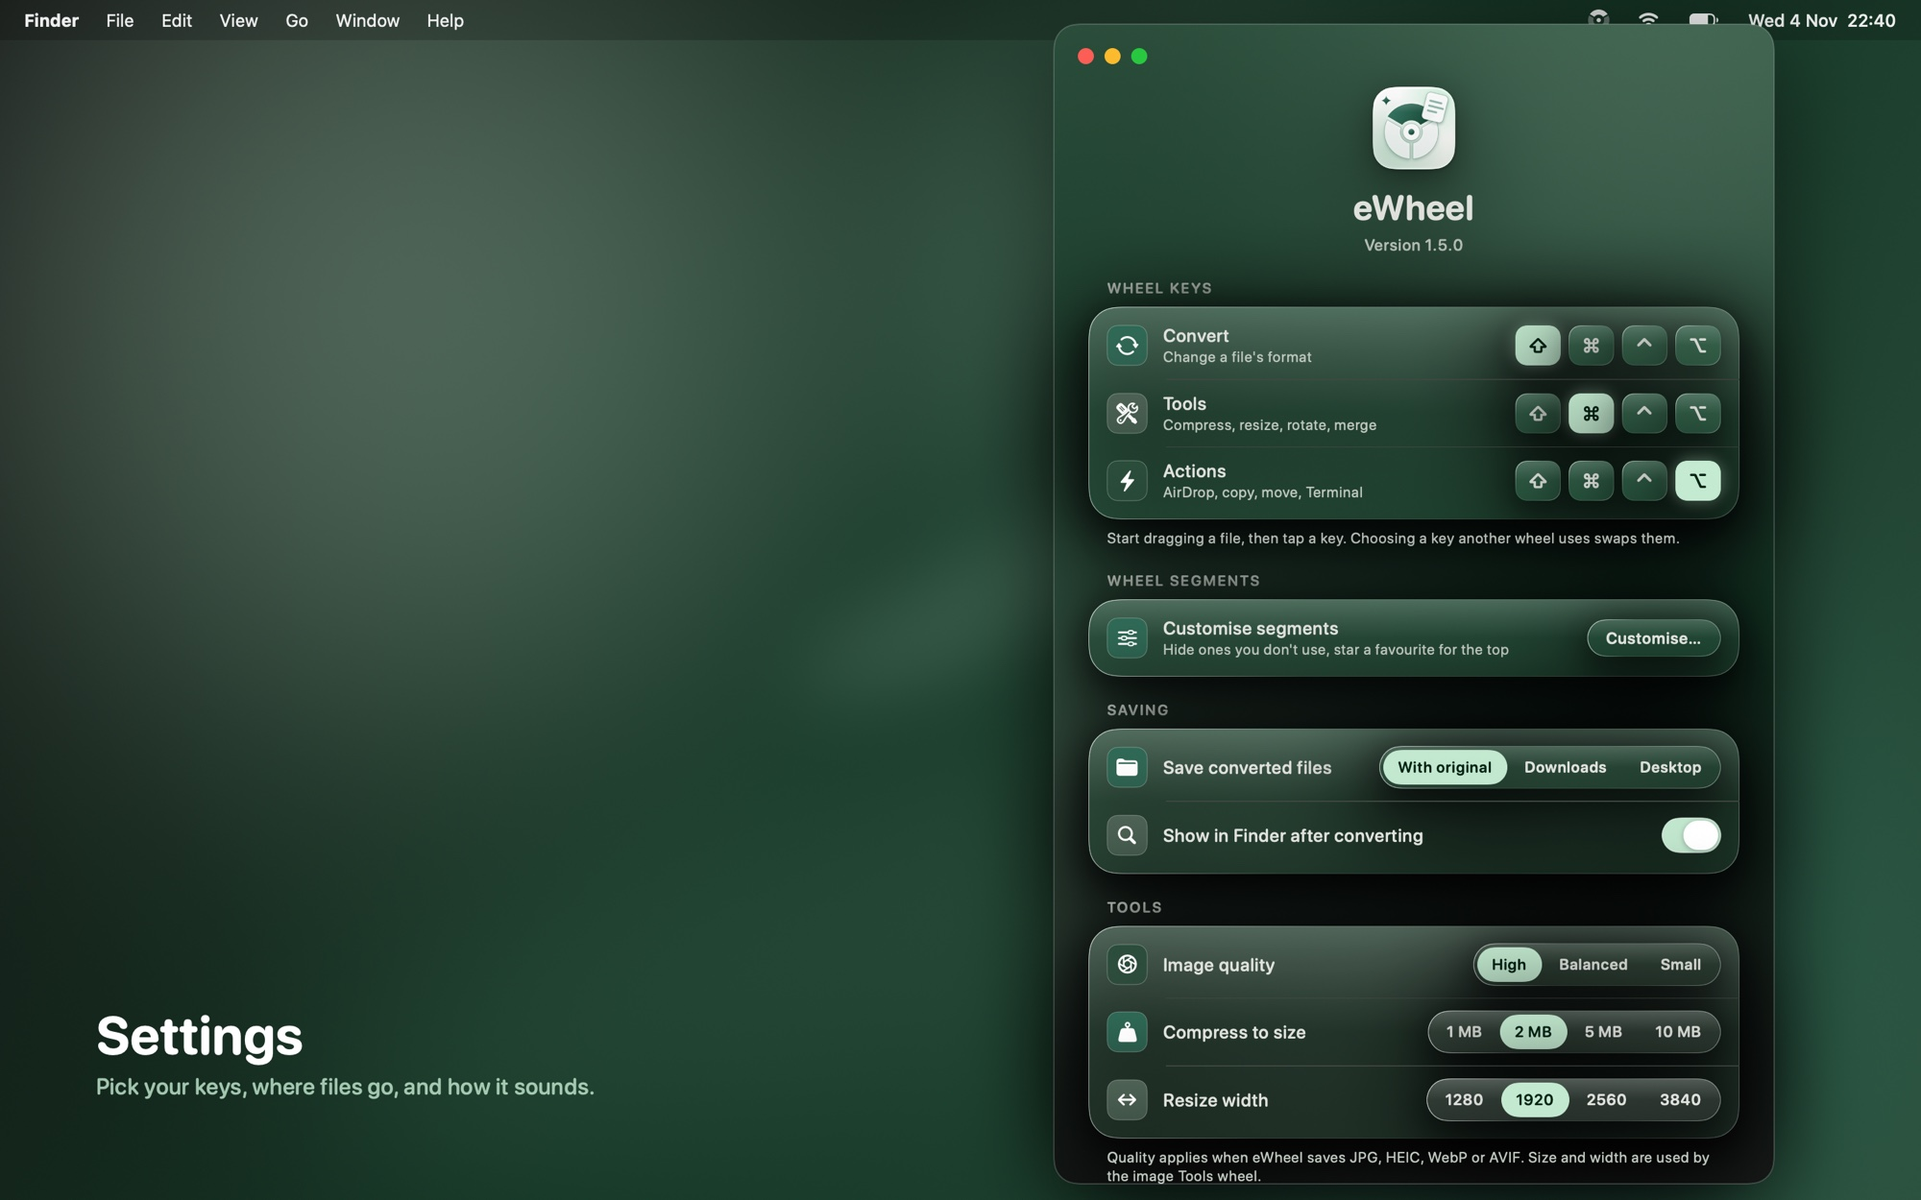
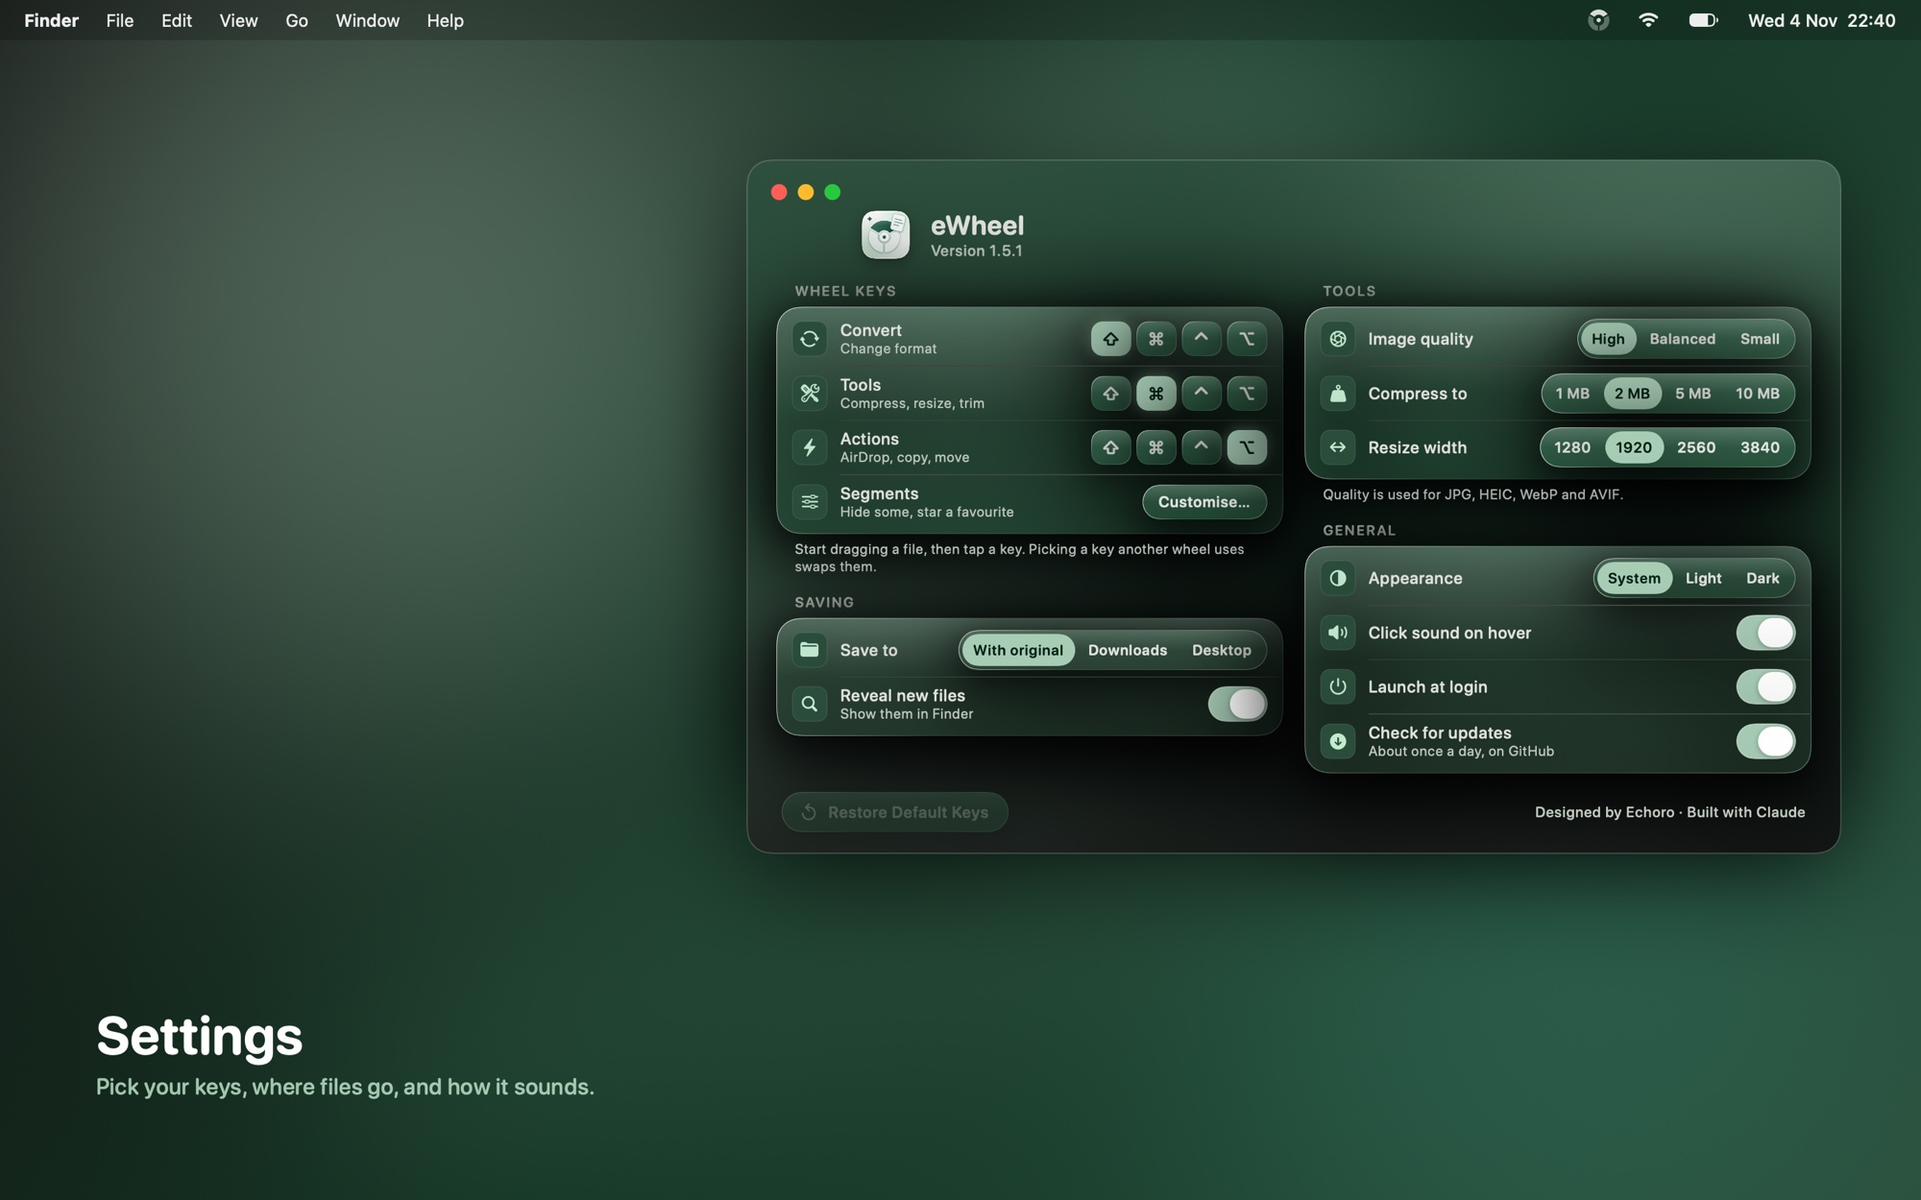
eWheel 1.5.1: compact Settings, Echoro brand colour roles
- Settings is 820 × 520 instead of 540 × 870: two columns of the same glass
  sections (Wheel keys + Saving | Tools + General), a one-line header, tighter
  rows, and Customise folded into the Wheel keys section. No scrolling.
- Colours follow Echoro's brand roles: icon chips use primary container with
  on-primary-container (one pairing instead of four greens), and selections
  (keys, choices, switches, the picked segment) use the kit's primary role,
  as MacCleanser does. The glass is unchanged.
- "Show in Finder after converting" is now "Reveal new files".
- Removes Img.half, unused since Resize width replaced Half size.

Changed region(s): [[0.372, 0.0, 0.992, 1.0], [0.558, 0.0312, 0.62, 0.0624]]

diff --git a/Sources/eWheel/Settings.swift b/Sources/eWheel/Settings.swift
@@ -14,7 +14,7 @@ enum Credits {
 @MainActor
 final class SettingsWindow {
     static let shared = SettingsWindow()
-    static let size = CGSize(width: 540, height: 870)
+    static let size = CGSize(width: 820, height: 520)
     private var window: NSWindow?
 
     func show() {
@@ -85,78 +85,75 @@ struct SettingsView: View {
     var body: some View {
         ZStack(alignment: .top) {
             SettingsBackground()
-            RenderSafeScroll {
-            VStack(spacing: 18) {
+            VStack(spacing: 14) {
                 header
-                section("Wheel keys", footer: "Start dragging a file, then tap a key. Choosing a key another wheel uses swaps them.") {
-                    ForEach(Array(WheelMode.allCases.enumerated()), id: \.offset) { i, mode in
-                        if i > 0 { divider }
-                        keyRow(mode)
-                    }
-                }
-                section("Wheel segments", footer: nil) {
-                    row(icon: "slider.horizontal.3", shade: Brand.color(Brand.forest), title: "Customise segments",
-                        subtitle: "Hide ones you don't use, star a favourite for the top") {
-                        Button { CustomiseWindow.shared.show() } label: {
-                            Text("Customise\u{2026}")
-                                .font(.system(size: 12, weight: .semibold, design: .rounded))
-                                .padding(.horizontal, 14).frame(height: 28)
-                                .echoGlass(Capsule(), tint: GlassTint.clear, interactive: true)
+                HStack(alignment: .top, spacing: 16) {
+                    VStack(spacing: 14) {
+                        section("Wheel keys", footer: "Start dragging a file, then tap a key. Picking a key another wheel uses swaps them.") {
+                            ForEach(Array(WheelMode.allCases.enumerated()), id: \.offset) { i, mode in
+                                if i > 0 { divider }
+                                keyRow(mode)
+                            }
+                            divider
+                            row(icon: "slider.horizontal.3", title: "Segments", subtitle: "Hide some, star a favourite") {
+                                Button { CustomiseWindow.shared.show() } label: {
+                                    Text("Customise\u{2026}")
+                                        .font(.system(size: 11.5, weight: .semibold, design: .rounded))
+                                        .padding(.horizontal, 12).frame(height: 26)
+                                        .echoGlass(Capsule(), tint: GlassTint.clear, interactive: true)
+                                }
+                                .buttonStyle(.plain)
+                            }
                         }
-                        .buttonStyle(.plain)
-                    }
-                }
-                section("Saving", footer: nil) {
-                    row(icon: "folder.fill", shade: Brand.color(Brand.forest), title: "Save converted files") { locationPicker }
-                    divider
-                    row(icon: "magnifyingglass", shade: Brand.color(Brand.lSecondary), title: "Show in Finder after converting") {
-                        GlassSwitch(isOn: $revealAfter)
-                    }
-                }
-                section("Tools", footer: "Quality applies when eWheel saves JPG, HEIC, WebP or AVIF. Size and width are used by the image Tools wheel.") {
-                    row(icon: "camera.aperture", shade: Brand.color(Brand.dPrimaryContainer), title: "Image quality") {
-                        segmented([("High", "high"), ("Balanced", "balanced"), ("Small", "small")], selection: $imageQuality)
-                    }
-                    divider
-                    row(icon: "scalemass.fill", shade: Brand.color(Brand.forest), title: "Compress to size") {
-                        segmented([1, 2, 5, 10].map { ("\($0) MB", "\($0)") },
-                                  selection: Binding(get: { "\(targetMB)" }, set: { targetMB = Int($0) ?? 2 }))
-                    }
-                    divider
-                    row(icon: "arrow.left.and.right", shade: Brand.color(Brand.lSecondary), title: "Resize width") {
-                        segmented([1280, 1920, 2560, 3840].map { ("\($0)", "\($0)") },
-                                  selection: Binding(get: { "\(resizeWidth)" }, set: { resizeWidth = Int($0) ?? 1920 }))
-                    }
-                }
-                section("General", footer: nil) {
-                    row(icon: "circle.lefthalf.filled", shade: Echoro.green, title: "Appearance") {
-                        segmented([("System", "system"), ("Light", "light"), ("Dark", "dark")], selection: $appearance) {
-                            Appearance.apply()
+                        section("Saving", footer: nil) {
+                            row(icon: "folder.fill", title: "Save to") { locationPicker }
+                            divider
+                            row(icon: "magnifyingglass", title: "Reveal new files", subtitle: "Show them in Finder") { GlassSwitch(isOn: $revealAfter) }
                         }
                     }
-                    divider
-                    row(icon: "speaker.wave.2.fill", shade: Brand.color(Brand.dPrimaryContainer), title: "Click sound on hover") {
-                        GlassSwitch(isOn: $hoverSound)
+                    VStack(spacing: 14) {
+                        section("Tools", footer: "Quality is used for JPG, HEIC, WebP and AVIF.") {
+                            row(icon: "camera.aperture", title: "Image quality") {
+                                segmented([("High", "high"), ("Balanced", "balanced"), ("Small", "small")], selection: $imageQuality)
+                            }
+                            divider
+                            row(icon: "scalemass.fill", title: "Compress to") {
+                                segmented([1, 2, 5, 10].map { ("\($0) MB", "\($0)") },
+                                          selection: Binding(get: { "\(targetMB)" }, set: { targetMB = Int($0) ?? 2 }))
+                            }
+                            divider
+                            row(icon: "arrow.left.and.right", title: "Resize width") {
+                                segmented([1280, 1920, 2560, 3840].map { ("\($0)", "\($0)") },
+                                          selection: Binding(get: { "\(resizeWidth)" }, set: { resizeWidth = Int($0) ?? 1920 }))
+                            }
+                        }
+                        section("General", footer: nil) {
+                            row(icon: "circle.lefthalf.filled", title: "Appearance") {
+                                segmented([("System", "system"), ("Light", "light"), ("Dark", "dark")], selection: $appearance) {
+                                    Appearance.apply()
+                                }
+                            }
+                            divider
+                            row(icon: "speaker.wave.2.fill", title: "Click sound on hover") { GlassSwitch(isOn: $hoverSound) }
+                            divider
+                            row(icon: "power", title: "Launch at login") {
+                                GlassSwitch(isOn: Binding(get: { login.enabled }, set: { login.set($0) }))
+                            }
+                            divider
+                            row(icon: "arrow.down.circle.fill", title: "Check for updates", subtitle: "About once a day, on GitHub") {
+                                GlassSwitch(isOn: $autoUpdateCheck)
+                            }
+                        }
+                        if let error = login.error {
+                            Text(error).font(.system(size: 11, design: .rounded)).foregroundStyle(Color.inkSecondary)
+                        }
                     }
-                    divider
-                    row(icon: "power", shade: Echoro.green, title: "Launch at login") {
-                        GlassSwitch(isOn: Binding(get: { login.enabled }, set: { login.set($0) }))
-                    }
-                    divider
-                    row(icon: "arrow.down.circle.fill", shade: Brand.color(Brand.forest),
-                        title: "Check for updates automatically", subtitle: "Looks for a new version on GitHub about once a day") {
-                        GlassSwitch(isOn: $autoUpdateCheck)
-                    }
-                }
-                if let error = login.error {
-                    Text(error).font(.system(size: 11, design: .rounded)).foregroundStyle(Color.inkSecondary)
                 }
                 footerBar
             }
-            .padding(.horizontal, 26)
-            .padding(.top, 40)
-            .padding(.bottom, 20)
-            }
+            .padding(.horizontal, 22)
+            .padding(.top, 34)
+            .padding(.bottom, 18)
         }
         .frame(width: SettingsWindow.size.width, height: SettingsWindow.size.height, alignment: .top)
         .foregroundStyle(Color.ink)
@@ -164,32 +161,37 @@ struct SettingsView: View {
 
     // MARK: Header
 
+    /// One compact line: icon, name and version.
     private var header: some View {
-        VStack(spacing: 6) {
+        HStack(spacing: 12) {
             Image(nsImage: NSApp.applicationIconImage)
                 .resizable()
-                .frame(width: 76, height: 76)
-                .shadow(color: .black.opacity(0.35), radius: 12, y: 6)
-            Text("eWheel").font(.system(size: 26, weight: .bold, design: .rounded))
-            Text(Credits.version).font(.system(size: 12, weight: .medium, design: .rounded)).foregroundStyle(Color.inkSecondary)
+                .frame(width: 44, height: 44)
+                .shadow(color: .black.opacity(0.3), radius: 6, y: 3)
+            VStack(alignment: .leading, spacing: 0) {
+                Text("eWheel").font(.system(size: 20, weight: .bold, design: .rounded))
+                Text(Credits.version).font(.system(size: 11.5, weight: .medium, design: .rounded)).foregroundStyle(Color.inkSecondary)
+            }
+            Spacer()
         }
-        .frame(maxWidth: .infinity)
+        .padding(.leading, 60)   // clear of the window buttons
     }
 
     // MARK: Sections and rows
 
     private func section<C: View>(_ title: String, footer: String?, @ViewBuilder _ content: () -> C) -> some View {
-        VStack(alignment: .leading, spacing: 7) {
+        VStack(alignment: .leading, spacing: 5) {
             Text(title.uppercased())
-                .font(.system(size: 11, weight: .semibold, design: .rounded)).tracking(0.8)
+                .font(.system(size: 10.5, weight: .semibold, design: .rounded)).tracking(0.8)
                 .foregroundStyle(Color.inkSecondary)
                 .padding(.leading, 14)
             VStack(spacing: 0) { content() }
                 .padding(.vertical, 4)
-                .echoGlass(RoundedRectangle(cornerRadius: 22, style: .continuous), tint: GlassTint.clear)
+                .echoGlass(RoundedRectangle(cornerRadius: 18, style: .continuous), tint: GlassTint.clear)
             if let footer {
                 Text(footer)
-                    .font(.system(size: 11, design: .rounded))
+                    .font(.system(size: 10.5, design: .rounded))
+                    .fixedSize(horizontal: false, vertical: true)
                     .foregroundStyle(Color.inkSecondary)
                     .padding(.horizontal, 14)
             }
@@ -197,36 +199,36 @@ struct SettingsView: View {
     }
 
     private var divider: some View {
-        Rectangle().fill(Color.divider).frame(height: 0.8).padding(.leading, 58)
+        Rectangle().fill(Color.divider).frame(height: 0.8).padding(.leading, 48)
     }
 
-    private func row<C: View>(icon: String, shade: Color, title: String, subtitle: String? = nil,
+    private func row<C: View>(icon: String, title: String, subtitle: String? = nil,
                               @ViewBuilder _ control: () -> C) -> some View {
-        HStack(spacing: 12) {
-            IconChip(symbol: icon, shade: shade)
-            VStack(alignment: .leading, spacing: 1) {
-                Text(title).font(.system(size: 13.5, weight: .medium, design: .rounded))
+        HStack(spacing: 10) {
+            IconChip(symbol: icon)
+            VStack(alignment: .leading, spacing: 0) {
+                Text(title).font(.system(size: 12.5, weight: .medium, design: .rounded)).lineLimit(1)
                 if let subtitle {
-                    Text(subtitle).font(.system(size: 11, design: .rounded)).foregroundStyle(Color.inkSecondary)
+                    Text(subtitle).font(.system(size: 10.5, design: .rounded)).foregroundStyle(Color.inkSecondary).lineLimit(1)
                 }
             }
-            Spacer(minLength: 8)
+            Spacer(minLength: 6)
             control()
         }
-        .padding(.horizontal, 14)
-        .frame(minHeight: 50)
+        .padding(.horizontal, 12)
+        .frame(minHeight: 40)
     }
 
     // MARK: Wheel keys
 
     private func keyRow(_ mode: WheelMode) -> some View {
-        let info: (String, Color, String) = switch mode {
-        case .convert: ("arrow.triangle.2.circlepath", Brand.color(Brand.forest), "Change a file's format")
-        case .tools: ("wrench.and.screwdriver.fill", Brand.color(Brand.lSecondary), "Compress, resize, rotate, merge")
-        case .actions: ("bolt.fill", Brand.color(Brand.dPrimaryContainer), "AirDrop, copy, move, Terminal")
+        let info: (String, String) = switch mode {
+        case .convert: ("arrow.triangle.2.circlepath", "Change format")
+        case .tools: ("wrench.and.screwdriver.fill", "Compress, resize, trim")
+        case .actions: ("bolt.fill", "AirDrop, copy, move")
         }
-        return row(icon: info.0, shade: info.1, title: mode.title, subtitle: info.2) {
-            HStack(spacing: 6) {
+        return row(icon: info.0, title: mode.title, subtitle: info.1) {
+            HStack(spacing: 4) {
                 ForEach(ModKey.allCases) { k in keycap(k, for: mode) }
             }
         }
@@ -236,9 +238,9 @@ struct SettingsView: View {
         let on = value(mode) == k.rawValue
         return Button { withAnimation(.snappy(duration: 0.2)) { choose(k.rawValue, for: mode) } } label: {
             Text(k.glyph)
-                .font(.system(size: 15, weight: .semibold, design: .rounded))
+                .font(.system(size: 13.5, weight: .semibold, design: .rounded))
                 .foregroundStyle(on ? Color.onPick : Color.ink)
-                .frame(width: 34, height: 30)
+                .frame(width: 30, height: 26)
                 .background {
                     if on {
                         RoundedRectangle(cornerRadius: 9, style: .continuous).fill(Color.pick)
@@ -268,10 +270,10 @@ struct SettingsView: View {
                     onPick()
                 } label: {
                     Text(label)
-                        .font(.system(size: 11.5, weight: .semibold, design: .rounded))
+                        .font(.system(size: 11, weight: .semibold, design: .rounded))
                         .foregroundStyle(on ? Color.onPick : Color.ink)
-                        .padding(.horizontal, 11)
-                        .frame(height: 26)
+                        .padding(.horizontal, 8)
+                        .frame(height: 24)
                         .background { if on { Capsule().fill(Color.pick) } }
                         .contentShape(Capsule())
                 }

diff --git a/Sources/eWheel/Glass.swift b/Sources/eWheel/Glass.swift
@@ -67,9 +67,9 @@ extension View {
 extension Color {
     /// "Picked" fill (selected segment, key, switch): mint #C5ECD2 on dark, Echoro Green on light,
     /// because mint all but disappears on pale glass.
-    static let pick = Brand.dynamic(dark: Brand.hex(Brand.lPrimaryContainer), light: Brand.hex(Brand.echoroGreen))
+    static let pick = Color.primaryFill   // Echoro kit role: primary #A9CFB7 on dark, Echoro Green on light
     /// Text and icons on `pick`: #002112 on dark, white on light.
-    static let onPick = Brand.dynamic(dark: Brand.hex(Brand.lOnPrimaryContainer), light: Brand.hex(0xFFFFFF))
+    static let onPick = Color.onPrimaryFill   // #002112 on dark, white on light
     /// Error pop-up: container #93000A / #FFDAD6 with error #FFB4AB / #BA1A1A.
     static let errorFill = Brand.dynamic(dark: Brand.hex(0x93000A), light: Brand.hex(0xFFDAD6))
     static let errorInk = Brand.dynamic(dark: Brand.hex(Brand.dError), light: Brand.hex(Brand.lError))
@@ -83,7 +83,7 @@ extension Color {
 
 extension GlassTint {
     /// Glass tint for a picked wheel segment, matching `Color.pick`.
-    static let picked = Brand.dynamic(dark: Brand.hex(Brand.lPrimaryContainer, 0.88), light: Brand.hex(Brand.echoroGreen, 0.88))
+    static let picked = Brand.dynamic(dark: Brand.hex(Brand.dPrimary, 0.88), light: Brand.hex(Brand.echoroGreen, 0.88))
 }
 
 extension Appearance {
@@ -122,17 +122,20 @@ struct GlassSwitch: View {
     }
 }
 
-/// Small rounded-square icon, like the ones in System Settings, in greens.
+/// Small rounded-square icon, like the ones in System Settings, in the Echoro brand pairing:
+/// primary container with on-primary-container (#2B4E3B + #C5ECD2 on dark, #C5ECD2 + #002112 on light).
 struct IconChip: View {
     let symbol: String
-    var shade: Color = Brand.color(Brand.forest)
+
+    static let fill = Brand.dynamic(dark: Brand.hex(Brand.dPrimaryContainer), light: Brand.hex(Brand.lPrimaryContainer))
+    static let glyph = Brand.dynamic(dark: Brand.hex(Brand.dOnPrimaryContainer), light: Brand.hex(Brand.lOnPrimaryContainer))
 
     var body: some View {
-        RoundedRectangle(cornerRadius: 8, style: .continuous)
-            .fill(LinearGradient(colors: [shade.opacity(1), shade.opacity(0.75)], startPoint: .top, endPoint: .bottom))
-            .overlay(RoundedRectangle(cornerRadius: 8, style: .continuous).stroke(.white.opacity(0.25), lineWidth: 0.6))
-            .frame(width: 30, height: 30)
-            .overlay(Image(systemName: symbol).font(.system(size: 14, weight: .semibold)).foregroundStyle(.white))
+        RoundedRectangle(cornerRadius: 7, style: .continuous)
+            .fill(Self.fill)
+            .overlay(RoundedRectangle(cornerRadius: 7, style: .continuous).stroke(Color.ink.opacity(0.12), lineWidth: 0.6))
+            .frame(width: 26, height: 26)
+            .overlay(Image(systemName: symbol).font(.system(size: 12, weight: .semibold)).foregroundStyle(Self.glyph))
     }
 }
 

diff --git a/Sources/eWheel/Converters.swift b/Sources/eWheel/Converters.swift
@@ -136,11 +136,6 @@ enum Img {
         }
     }
 
-    static func half(_ img: CGImage) -> CGImage {
-        let w = max(img.width / 2, 1), h = max(img.height / 2, 1)
-        return draw(w, h) { $0.draw(img, in: CGRect(x: 0, y: 0, width: w, height: h)) }
-    }
-
     static func rotate(_ img: CGImage) -> CGImage {
         draw(img.height, img.width) { c in
             c.translateBy(x: 0, y: CGFloat(img.width))

diff --git a/Sources/eWheel/Render.swift b/Sources/eWheel/Render.swift
@@ -193,7 +193,7 @@ private struct Cursor: View {
 // MARK: - Settings
 
 private struct SettingsScene: View {
-    let origin = CGPoint(x: 790, y: 18)
+    let origin = CGPoint(x: 560, y: 120)
 
     var body: some View {
         let size = SettingsWindow.size
